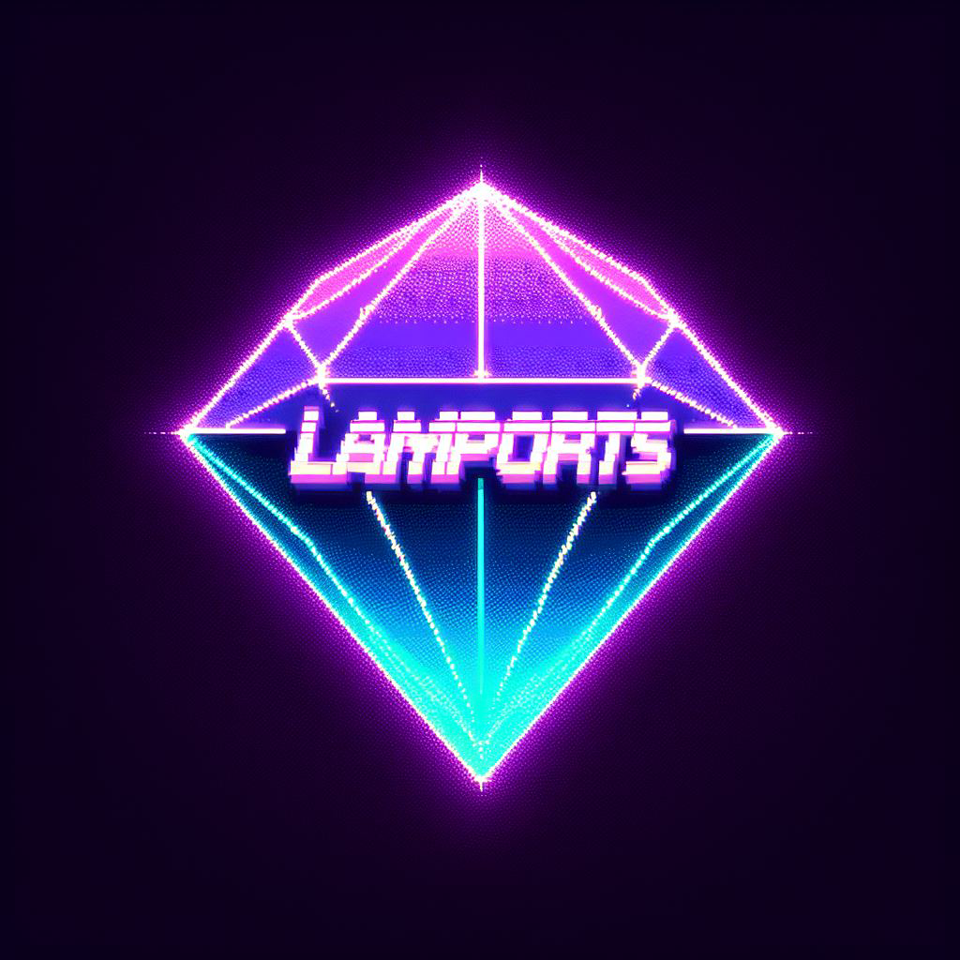
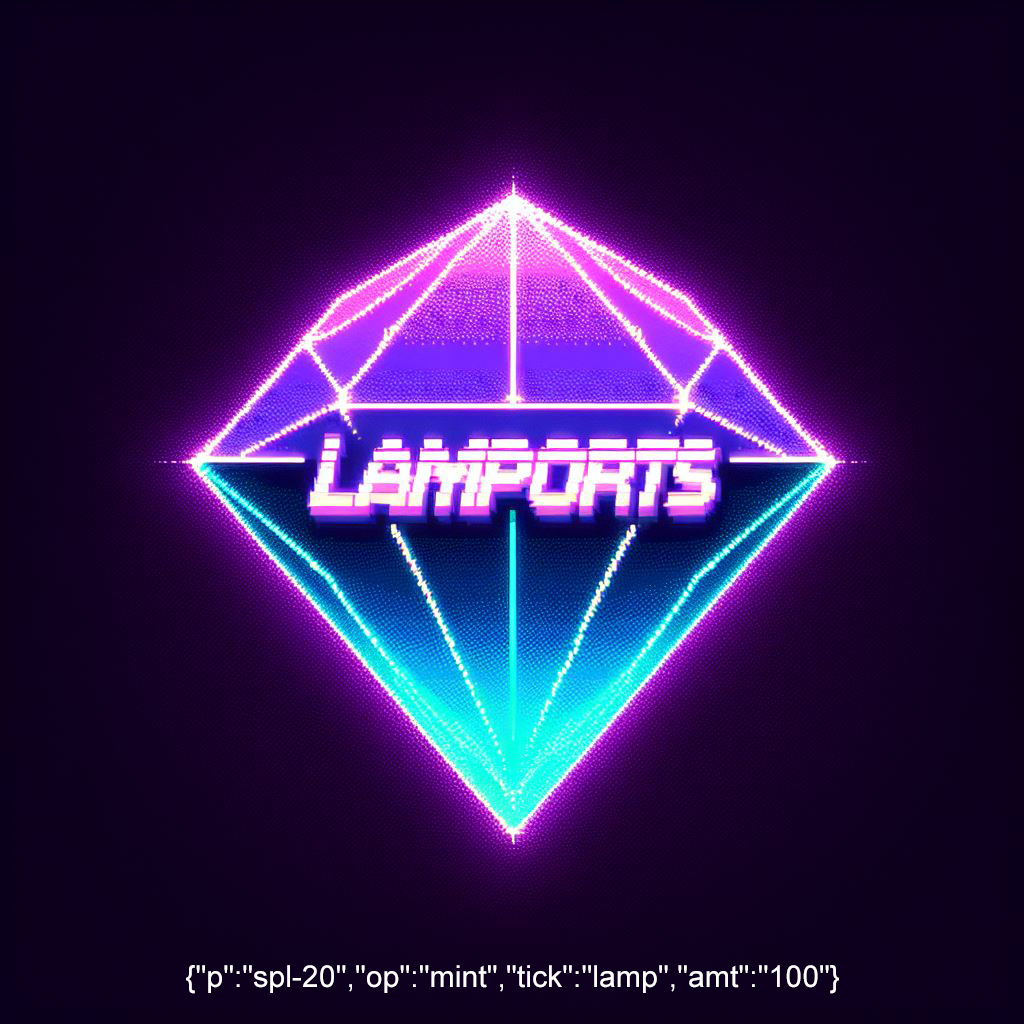
v0.27

Changed region(s): [[0.1875, 0.9375, 0.8438, 0.9688]]

diff --git a/README.md b/README.md
@@ -11,7 +11,7 @@ SPL-20 is a new open-source, fair launch fungible token standard made possible b
    - **Name:** ```$1000 SOLS``` (Ensure to include the $ symbol and that the number matches the "amt" value in the provided inscribe.txt file (1000 for SOLS, but can be any integer the project creators choose) and ensure the ticker name is spelled properly). **MANDATORY**
    - **SYMBOL:** ```SOLS``` (Ensure you do NOT incldue the $ symbol and that the ticker name is spelled properly). 
    - **ROYALTIES:** Set to 0% **MANDATORY**
-   - **CREATORS:** ```SOLSeeX8YX5TqmkRm1YgBEjdcrZ3q4pYXo8Hbom294b``` (Use the provided creator address within the deployaddress.txt file.) **MANDATORY**
+   - **CREATORS:** ```SOLSeeX8YX5TqmkRm1YgBEjdcrZ3q4pYXo8Hbom294b``` (Use the provided creator address within the creator.txt file.) **MANDATORY**
    - **COLLECTION:** ```G4tVHkeptBw8bXXamYFbhw6wuwB1vnyS5XpGZDK78ak``` (Use the provided collection address within the collection.txt file.) **MANDATORY**
    - **MUTABILITY:** False / Off (Check advanced settings for this on Sol-Tools or toggle off for Biblio). **MANDATORY**
 - Mint the NFT for 0.027 SOL (This is a MetaPlex fee. In the future we will transition to LibrePlex NFT standard which is free of protocol level fees like this).
@@ -30,8 +30,8 @@ SPL-20 is a new open-source, fair launch fungible token standard made possible b
 - Make a file called inscribe.txt and include the following syntax for the mint inscription, setting the "amt" value to the same as the deploy's "lim" value. ```{"p":"spl-20","op":"mint","tick":"sols","amt":"1000"}```
 - Fork this repo and create a pull request after adding a folder with your ticker name and the following files inside (do not include the "$"). Ticker names must be unique but there is no character limit, aside from the character limit on the NFT name metadata field.
    - A square image (png or webp) file for your token. It can optionally display the mint inscription JSON text.
-   - deployaddress.txt
    - collection.txt
+   - creator.txt
    - inscribe.txt
    - (No, you do NOT need to upload deploy.txt)
 - Once the PR has been merged the information is made public and you can launch whenever you like by inscribing the deploy NFT at "https://www.libreplex.io/inscriptions" we suggest not deploying sooner than this step or someone may see it being inscribed and try to front run the mint.
